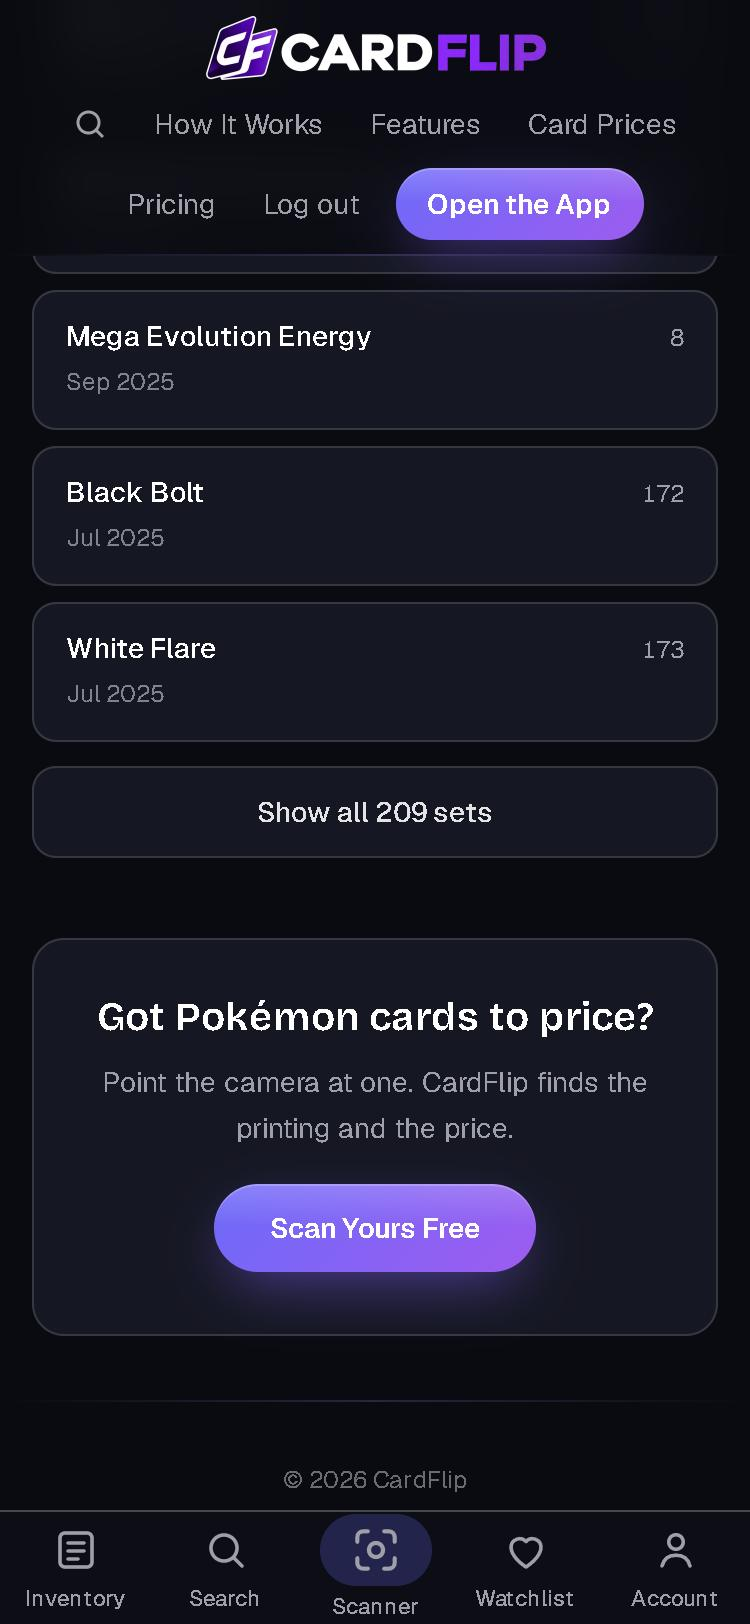
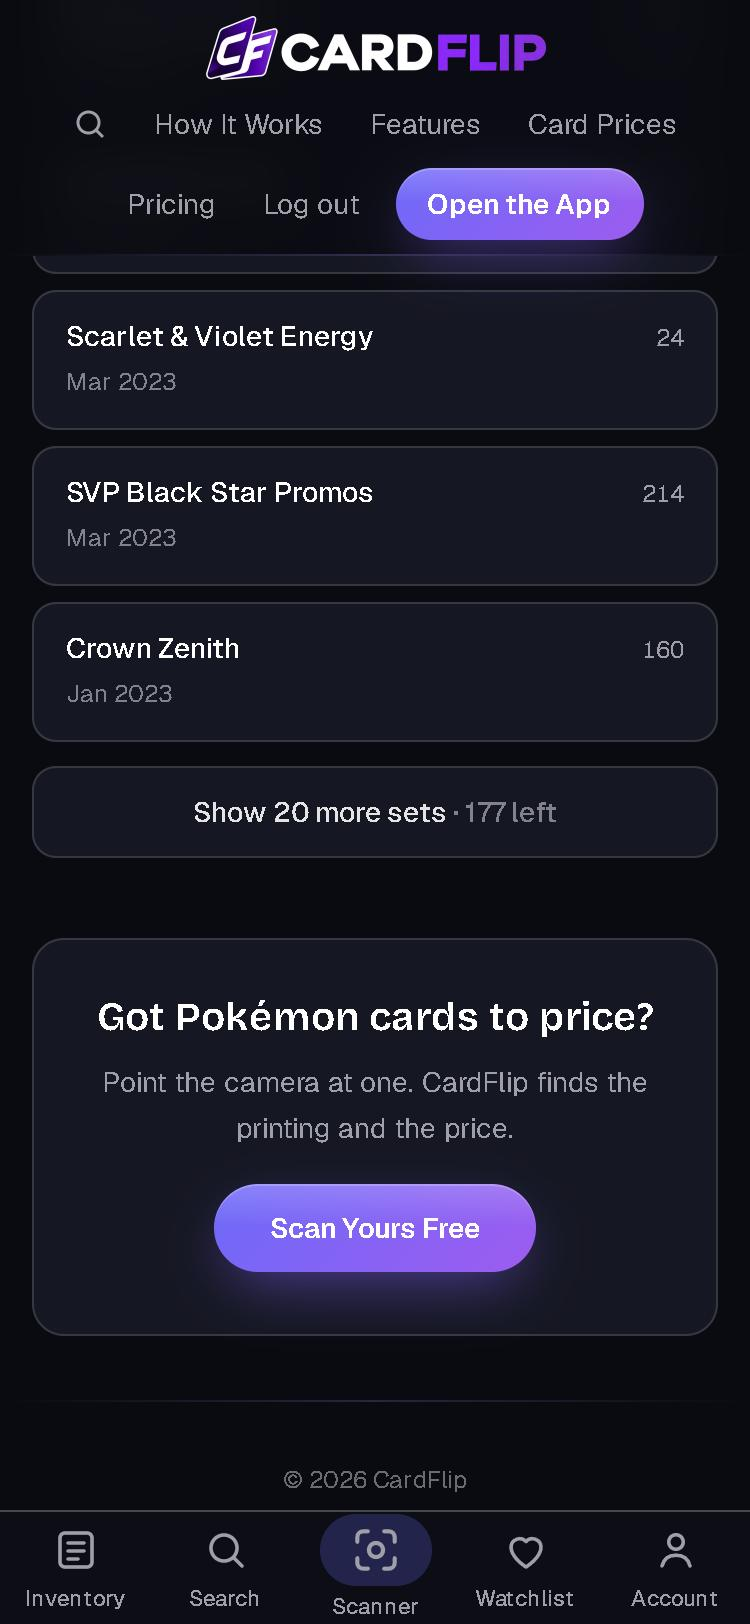
Sets list: Show 20 more per tap, not all at once (Chris 10-19)

diff --git a/src/components/ShowMoreList.tsx b/src/components/ShowMoreList.tsx
@@ -3,40 +3,45 @@
 import { useState, type ReactNode } from "react";
 
 /**
- * A long list that starts folded (Chris, 10-19 phone checks #4: the /cards/<game> sets list
- * was a huge scroll). Every item is in the HTML — the hidden ones are only CSS-hidden — so
- * crawlers still see every set link (internal links are a Search Console gate).
+ * A long list that starts folded and grows a step at a time (Chris, 10-19 phone checks #4: the
+ * /cards/<game> sets list was a huge scroll; 10-19: "show 20 more, not all sets"). Every item is
+ * in the HTML — the hidden ones are only CSS-hidden — so crawlers still see every set link
+ * (internal links are a Search Console gate).
  */
 export default function ShowMoreList({
   items,
   initial,
+  step,
   noun,
   className,
 }: {
   items: ReactNode[];
   initial: number;
-  /** Plural word for the button: "Show all 212 sets". */
+  /** How many more each tap reveals. */
+  step: number;
+  /** Plural word for the button: "Show 20 more sets". */
   noun: string;
   className?: string;
 }) {
-  const [open, setOpen] = useState(false);
-  const folded = !open && items.length > initial;
+  const [shown, setShown] = useState(initial);
+  const left = items.length - shown;
   return (
     <>
       <ul className={className}>
         {items.map((item, i) => (
-          <li key={i} className={folded && i >= initial ? "hidden" : undefined}>
+          <li key={i} className={i >= shown ? "hidden" : undefined}>
             {item}
           </li>
         ))}
       </ul>
-      {folded && (
+      {left > 0 && (
         <button
           type="button"
-          onClick={() => setOpen(true)}
+          onClick={() => setShown((n) => n + step)}
           className="mt-3 w-full rounded-xl border border-edge bg-surface-1 px-4 py-3 text-sm font-medium text-zinc-200 transition hover:border-edge-strong"
         >
-          Show all {items.length.toLocaleString("en-US")} {noun}
+          Show {Math.min(step, left)} more {noun}
+          <span className="text-zinc-500"> · {left.toLocaleString("en-US")} left</span>
         </button>
       )}
     </>

diff --git a/src/app/cards/[game]/page.tsx b/src/app/cards/[game]/page.tsx
@@ -134,6 +134,7 @@ export default async function GameHubPage({ params }: PageProps<"/cards/[game]">
               (Magic, 10-14: 386px wide at 375) pushes the list past the screen edge and the page scrolls sideways. */}
           <ShowMoreList
             initial={12}
+            step={20}
             noun="sets"
             className="mt-4 grid grid-cols-1 gap-2 sm:grid-cols-2 lg:grid-cols-3"
             items={sets.map((s) => (

diff --git a/docs/STATE.md b/docs/STATE.md
@@ -23,7 +23,7 @@ source of truth â€” tokens, holo rationing rule, motion policy, voice).
 
 ## Start here next session
 
-**FIRST ACTION (s201, 10-19 ~10:00pm ET, NEWEST, read this one first).** Chris: "save, clear and resume" = NO questions, continue here. I WAS LITERALLY ABOUT TO: wait for Chris on PHONE CHECKS steps 22-25 (docs/PHONE-CHECKS.md part 5 rest + part 6; he has the numbered steps; parts 1-4 + step 21 DONE). Phone-check fixes #4-#6 are DONE and committed (845ea9a2, unpushed, verified on the dev server at 375px, TO-TEST top block written; Chris has NOT yet said yes to the two screenshots docs/shots/sets-show-more-phone.jpg + card-page-bottom-nav-phone.jpg; the visible-push rule needs his yes before this goes out). Dev server OFF again. FEATURE FREEZE: polish + bugs only. Then 10-20 MORNING: (a) Vercel usage in the pane (Chris signed in; vercel.com/card-flip1/~/usage): 10-20 ISR Writes should be near $0.30 again; Firewall > Traffic top user agents: a new no-value bot = add to the Firewall rule regex + robots.ts TRAINING_BOTS (memory cardflip-crawler-policy); (b) Charizard base1-4 cache recheck (~$600 + "Checked against recent eBay sales"); (c) 7am TikTok + Pinterest with Chris + 7:05am autopost check. DONE TONIGHT: price chain built 2358a245 (TO-TEST top block), Vercel bill explained (three AI crawlers; firewall rule live, robots 5d5603f5 + 66d1b961), LESSONS entry. 34 UNPUSHED (git log origin/main..HEAD; Chris: commits only today; before the push: TO-TEST top blocks for 2358a245 + 9bb74143 + a34a418f + robots, screenshots rule n/a, nothing visible changed). OPEN BUG: Eevee 074 Master Ball read. Dev server OFF, tunnel OFF, pane: seed tab on Vercel Firewall (harmless). Model next: FABLE, effort medium (Fable until Wed 10-21 night).
+**FIRST ACTION (s201, 10-19 ~10:00pm ET, NEWEST, read this one first).** Chris: "save, clear and resume" = NO questions, continue here. I WAS LITERALLY ABOUT TO: wait for Chris on PHONE CHECKS steps 22-25 (docs/PHONE-CHECKS.md part 5 rest + part 6; he has the numbered steps; parts 1-4 + step 21 DONE). Phone-check fixes #4-#6 are DONE and committed (845ea9a2 + the 20-more follow-up, unpushed, verified on the dev server at 375px, TO-TEST top block written; Chris has NOT yet said yes to the two screenshots docs/shots/sets-show-more-phone.jpg + card-page-bottom-nav-phone.jpg; the visible-push rule needs his yes before this goes out). Dev server OFF again. FEATURE FREEZE: polish + bugs only. Then 10-20 MORNING: (a) Vercel usage in the pane (Chris signed in; vercel.com/card-flip1/~/usage): 10-20 ISR Writes should be near $0.30 again; Firewall > Traffic top user agents: a new no-value bot = add to the Firewall rule regex + robots.ts TRAINING_BOTS (memory cardflip-crawler-policy); (b) Charizard base1-4 cache recheck (~$600 + "Checked against recent eBay sales"); (c) 7am TikTok + Pinterest with Chris + 7:05am autopost check. DONE TONIGHT: price chain built 2358a245 (TO-TEST top block), Vercel bill explained (three AI crawlers; firewall rule live, robots 5d5603f5 + 66d1b961), LESSONS entry. 34 UNPUSHED (git log origin/main..HEAD; Chris: commits only today; before the push: TO-TEST top blocks for 2358a245 + 9bb74143 + a34a418f + robots, screenshots rule n/a, nothing visible changed). OPEN BUG: Eevee 074 Master Ball read. Dev server OFF, tunnel OFF, pane: seed tab on Vercel Firewall (harmless). Model next: FABLE, effort medium (Fable until Wed 10-21 night).
 **s200 10-19 ~10:00pm ET (NEWEST): Vercel bill = crawlers.** Chris asked why 10-19 was $2.40 (and 10-14..18 $0.8-1.5). Read in the pane (Vercel Observability > ISR, AI Traffic, Firewall > Traffic): ISR Writes climbed daily 10-14 $0.30 -> 10-18 $0.82 -> 10-19 $1.67; cycle total ISR Writes $7.24 of ~$9 on-demand. Three bots = 114K of 125K requests/day: meta-webindexer 65K, AionBot 31K, Amzn-SearchBot 18K, rendering card pages (61K unique in 12 h). Oct 4-8 was Build CPU (pushes, fixed by batching: now $0.07-0.36/day), Oct 12-13 Blob ops (picture uploads). NOT the Claude model. DONE: Vercel Firewall deny rule (regex meta-webindexer|AionBot|Amzn-SearchBot, published 10:00pm, 6 denied in the first minute), robots.ts adds the three (commits 5d5603f5 + 66d1b961, unpushed), LESSONS entry. NEXT: 10-20 morning check Vercel usage: 10-20 ISR Writes should be back near $0.30; if a NEW bot name tops Firewall > Traffic, add it to the rule + robots. Phone checks 22-25 still with Chris.
 **FIRST ACTION (s200, 10-19 ~9:25pm ET, NEWEST, read this one first).** THE PRICE CHAIN IS BUILT + committed 2358a245 (Chris "yes build it"): src/lib/priceChain.ts (order + lifts), src/lib/server/cardkingdom.ts (new Magic fill, public list, retail/1.24, out-of-stock $100+ placeholders skipped, 15x oracle guard), mtgPriceRefresh fill order now Cardmarket x1.12 > Card Kingdom > CardTrader last, card pages rank backups by the chain + label "Card Kingdom (adjusted)", flagged fallback adds "30-day median", memory cardflip-price-source-order.md updated, CLAUDE.md trap row, TO-TEST top block, docs/PRICE-SOURCES-TEST-10-19.md "Built" section. All tests green (new scripts/test-price-chain.mjs 26 checks; mtgprices, mtg, pricing, sitetrust, cardpages, pricetrust, mtgfill, tcgprices, pkcardmarket), tsc + eslint clean; Card Kingdom dry run 51 fills of 1,256 blank released printings. 28 UNPUSHED, NO push today (Chris: commits only). NEXT: report to Chris and wait for his next task; when he says push: push HEAD:main, CI + Vercel + smoke, then the TO-TEST top block (nightly Magic log cardkingdomFilled, a Card Kingdom page label, lifted Lotus). Still open from s199: phone checks step 22/23 + part 6 need Chris; Eevee 074 Master Ball read; Charizard base1-4 recheck 10-20 morning. Dev server OFF, tunnel OFF. Model next: FABLE, effort medium.
 **s200 10-19 ~8:05pm ET (NEWEST).** Pokémon Cardmarket measure DONE + committed 096c2d74 (doc row + note: Pokémon CM = half of TCGplayer, 24-25% within ±25%, fresh data; referee + last resort for Pokémon, 1.12 lift Magic only). 25 unpushed, no pushes today. ASKED Chris one line: build the price chain in the doc order (Magic: TCGplayer > own 30-day median > Cardmarket x1.12 > Card Kingdom /1.24 > CardTrader > unsure; Pokémon: TCGplayer > own 30-day median > CardTrader/Cardmarket last > unsure)? On yes: pricing.ts single source, fills in priceBackups.ts / mtgPriceRefresh.ts / pokemonPriceRefresh.ts, pick in listing.ts pickPrice; tests; TO-TEST. The s199 block below is still the context.

diff --git a/docs/TO-TEST.md b/docs/TO-TEST.md
@@ -1,7 +1,7 @@
 # To test later
 
 ## 10-19 ~10:00pm ET: phone-check fixes #4-#6 (845ea9a2), COMMIT ONLY, no push yet (dev-server verified at 375px: docs/shots/sets-show-more-phone.jpg, card-page-bottom-nav-phone.jpg)
-- After push, on the phone: /cards/pokemon (and the other four games) shows 12 sets then a "Show all N sets" button; tapping it shows every set; no sideways scroll.
+- After push, on the phone: /cards/pokemon (and the other four games) shows 12 sets then a "Show 20 more sets · N left" button (Chris 10-19: 20 more, not all); each tap adds 20 and the left count drops; the button disappears after the last set; no sideways scroll.
 - After push, signed in on the phone: any /cards page shows the app's bottom tab bar (Inventory / Search / Scanner / Watchlist / Account); on a card page the Market + Watch this price bar sits right above it, nothing overlaps; signed out: no bar.
 - PHONE-CHECKS step 4 now reads Market price only.
 
